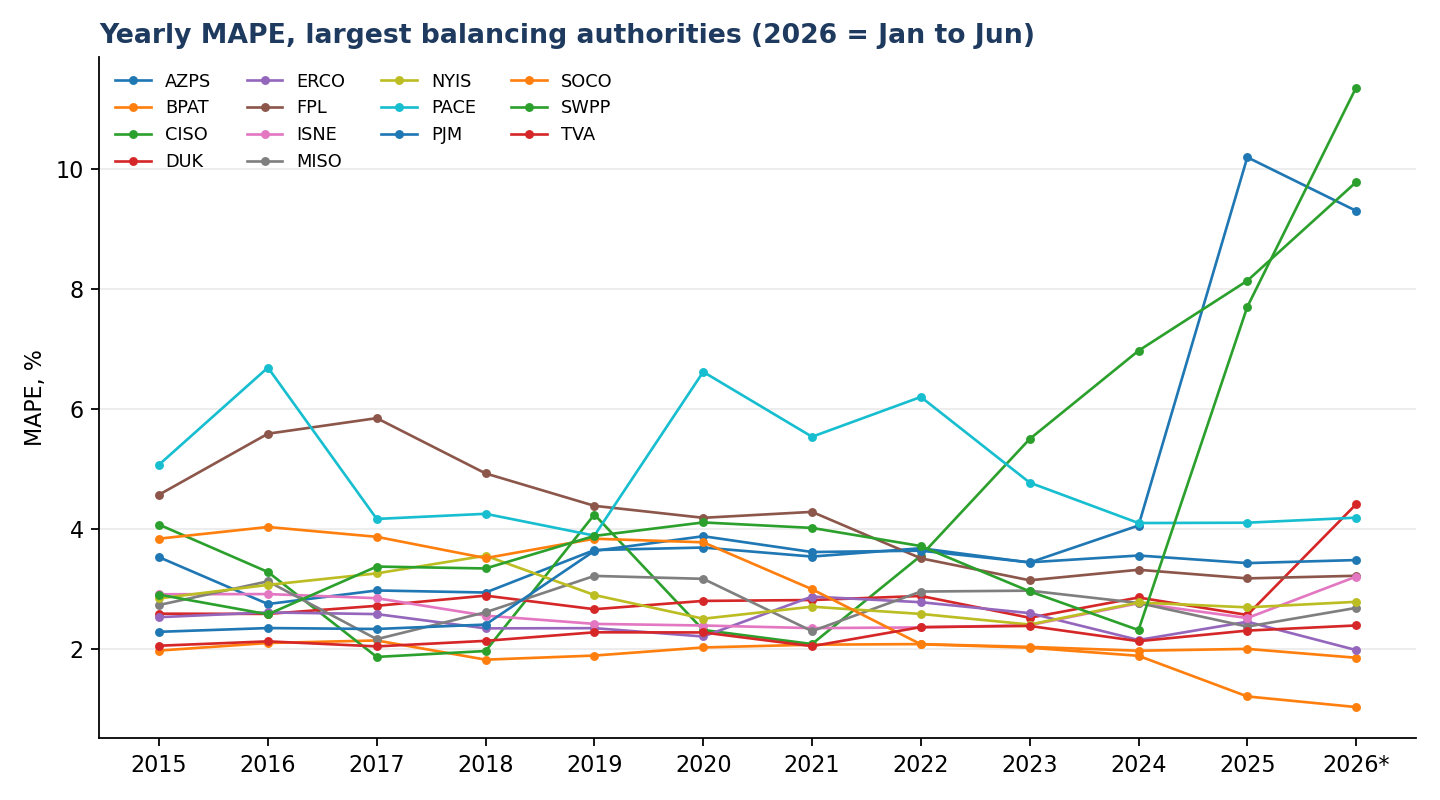
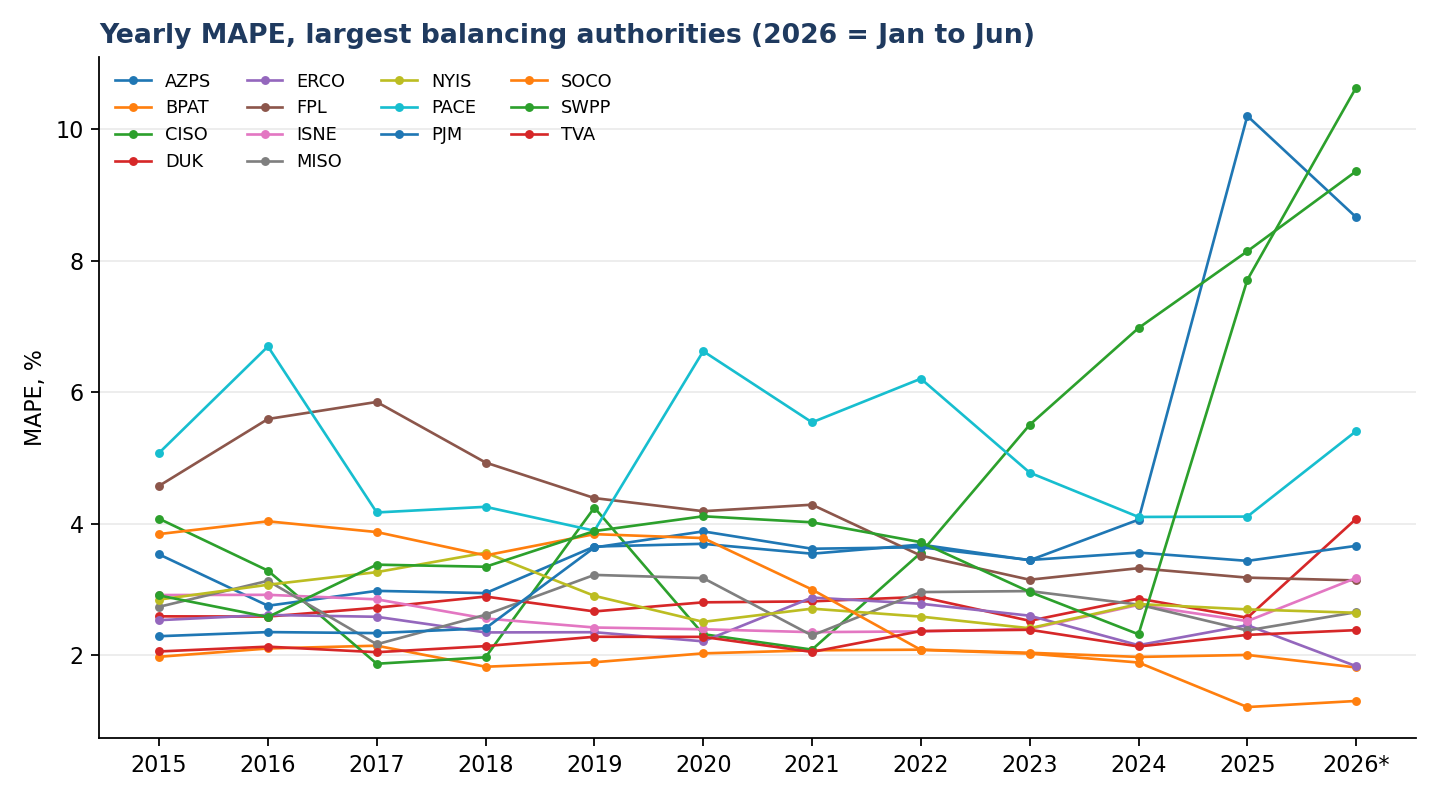
Add ORCID 0000-0001-6699-9951

diff --git a/01-ba-forecast-scorecard-2015-2026/README.md b/01-ba-forecast-scorecard-2015-2026/README.md
@@ -1,6 +1,6 @@
 # How well do U.S. balancing authorities forecast their own load? A 2015–2026 scorecard from EIA-930
 
-**Cardinal Grid Notes · No. 1 · Draft generated 2026-09-08 · Data 2015-07-01 to 2026-06-30 · Code: [`analysis.py`](analysis.py) · Scorer: [ba-forecast-scorecard](https://github.com/cardinalgrid/ba-forecast-scorecard) v0.1.1**
+**Cardinal Grid Notes · No. 1 · Draft generated 2026-09-10 · Data 2015-07-01 to 2026-09-10 · Code: [`analysis.py`](analysis.py) · Scorer: [ba-forecast-scorecard](https://github.com/cardinalgrid/ba-forecast-scorecard) v0.1.1**
 
 > Status: **draft for review**. Numbers and figures in this note are produced by `analysis.py` from public data; nothing here is typed by hand. The note will be published at [cardinalgrid.com/notes](https://cardinalgrid.com/notes) and archived with a DOI once reviewed.
 
@@ -12,11 +12,11 @@ This matters because the day-ahead forecast is what operators commit generation 
 
 ## What was measured
 
-- Source: EIA-930 six-month balance files, 2015-07-01 to 2026-06-30, 72 BAs in the files.
+- Source: EIA-930 six-month balance files, 2015-07-01 to 2026-09-10, 72 BAs in the files.
 - What the two series are, in EIA's own terms: "hourly integrated values in megawatts by hour ending time", i.e. average MW over each hour, time-stamped in UTC. `D` is actual demand; `DF` is the "day-ahead demand forecast", which each BA's daily file must contain as "yesterday's hourly day-ahead demand forecast for today". Files are due by 7:00 a.m. Eastern.
 - What EIA does not specify: the forecasting method, its inputs, or the time of day the forecast is produced. The instructions say a BA that does not produce a comparable forecast in the normal course of business is not required to build one for EIA and should "report the day-ahead demand forecast generated in the normal course of business". The forecast is therefore each BA's operational day-ahead forecast, as it was, made with whatever data the BA had at its own cut-off time.
-- For each BA-day with at least 20 valid hours: MAPE, bias, RMSE, and the error at the hour of the actual daily peak (`peak_hour_pct_error`, negative = forecast below actual). 206,335 BA-days and 4,945,622 hours were scored.
-- Data-quality rules, applied before any error is computed: hours with demand or forecast ≤ 0 are excluded; hours where forecast/demand falls outside [1/2, 2] are flagged as implausible (a zero, a unit error, a stale value) and excluded. 114,326 hours were flagged. EIA-imputed demand values were 0.000% of scored hours.
+- For each BA-day with at least 20 valid hours: MAPE, bias, RMSE, and the error at the hour of the actual daily peak (`peak_hour_pct_error`, negative = forecast below actual). 209,987 BA-days and 5,033,125 hours were scored.
+- Data-quality rules, applied before any error is computed: hours with demand or forecast ≤ 0 are excluded; hours where forecast/demand falls outside [1/2, 2] are flagged as implausible (a zero, a unit error, a stale value) and excluded. 114,714 hours were flagged. EIA-imputed demand values were 0.000% of scored hours.
 - Ranking eligibility: at least 180 scored days, mean demand ≥ 500 MW, and a median daily bias within ±25% (beyond that, forecast and demand are not describing the same quantity). 58 BAs report both series; **42 are eligible**.
 
 Full definitions are in the scorer's [README](https://github.com/cardinalgrid/ba-forecast-scorecard#metric-definitions).
@@ -25,7 +25,7 @@ Full definitions are in the scorer's [README](https://github.com/cardinalgrid/ba
 
 ### 1. Typical day-ahead error is a few percent, with a long tail
 
-Across eligible BAs, the **demand-weighted MAPE is 3.54%**; the median BA sits at 4.20%. The best five: PGE (1.8%), BPAT (2.0%), TVA (2.2%), GCPD (2.4%), ERCO (2.5%). The worst five: LDWP (7.8%), WACM (8.6%), WALC (9.9%), TEPC (11.2%), FPC (22.0%).
+Across eligible BAs, the **demand-weighted MAPE is 3.56%**; the median BA sits at 4.20%. The best five: PGE (1.8%), BPAT (2.0%), TVA (2.2%), ERCO (2.5%), GCPD (2.5%). The worst five: LDWP (7.8%), WACM (8.6%), WALC (9.9%), TEPC (11.1%), FPC (22.0%).
 
 ![Ranking](figures/fig1_ranking.png)
 
@@ -35,20 +35,20 @@ The tail is not, for the most part, bad forecasting. The BAs with the highest MA
 
 | Rank | BA | Region | MAPE | Bias | Mean abs. error at peak hour | 1-in-100-day under-forecast at peak |
 |---|---|---|---|---|---|---|
-| 2 | BPAT | NW | 2.01% | 0.10% | 2.15% | 7.0% |
-| 3 | TVA | TEN | 2.22% | 0.65% | 2.36% | 6.9% |
-| 5 | ERCO | TEX | 2.48% | 0.42% | 2.54% | 8.1% |
-| 6 | ISNE | NE | 2.60% | -1.63% | 1.40% | 4.6% |
-| 9 | MISO | MIDW | 2.77% | 2.41% | 2.64% | 3.6% |
-| 10 | DUK | CAR | 2.81% | 0.49% | 2.97% | 10.1% |
-| 11 | NYIS | NY | 2.85% | -2.39% | 2.95% | 8.7% |
-| 12 | SOCO | SE | 2.85% | -1.99% | 2.19% | 8.0% |
-| 15 | PJM | MIDA | 3.21% | -1.22% | 2.23% | 6.8% |
-| 20 | SWPP | CENT | 4.12% | 2.77% | 3.92% | 9.1% |
-| 22 | FPL | FLA | 4.22% | -2.22% | 4.48% | 16.6% |
-| 24 | CISO | CAL | 4.26% | -1.59% | 3.22% | 28.8% |
-| 26 | AZPS | SW | 4.31% | -0.18% | 3.50% | 17.5% |
-| 32 | PACE | NW | 4.98% | 3.79% | 4.49% | 20.4% |
+| 2 | BPAT | NW | 2.01% | 0.12% | 2.14% | 7.0% |
+| 3 | TVA | TEN | 2.22% | 0.66% | 2.35% | 6.9% |
+| 4 | ERCO | TEX | 2.46% | 0.41% | 2.52% | 8.0% |
+| 6 | ISNE | NE | 2.61% | -1.65% | 1.41% | 4.6% |
+| 9 | MISO | MIDW | 2.76% | 2.41% | 2.65% | 3.6% |
+| 10 | DUK | CAR | 2.81% | 0.52% | 2.97% | 10.0% |
+| 11 | SOCO | SE | 2.84% | -1.97% | 2.19% | 7.9% |
+| 12 | NYIS | NY | 2.84% | -2.36% | 2.94% | 8.6% |
+| 15 | PJM | MIDA | 3.23% | -1.23% | 2.23% | 6.8% |
+| 20 | SWPP | CENT | 4.18% | 2.84% | 3.97% | 9.0% |
+| 21 | FPL | FLA | 4.19% | -2.17% | 4.45% | 16.4% |
+| 26 | CISO | CAL | 4.33% | -1.70% | 3.23% | 28.7% |
+| 27 | AZPS | SW | 4.35% | -0.20% | 3.50% | 17.5% |
+| 32 | PACE | NW | 5.04% | 3.85% | 4.49% | 20.3% |
 
 ![Yearly MAPE](figures/fig2_yearly_major.png)
 
@@ -56,7 +56,7 @@ Two trends in this chart deserve their own note before any conclusion is drawn: 
 
 ### 3. At the peak hour, forecasts lean low
 
-On **59% of eligible BA-days the forecast was below actual demand at the hour of the daily peak.** If forecasts were unbiased, that share would be near 50%, and it has drifted upward since 2019. One eligible BA-day in a hundred under-forecasts the peak by more than **27.4%**. Under-forecasting at the peak is the direction that costs reserves and, in an emergency, load.
+On **59% of eligible BA-days the forecast was below actual demand at the hour of the daily peak.** If forecasts were unbiased, that share would be near 50%, and it has drifted upward since 2019. One eligible BA-day in a hundred under-forecasts the peak by more than **27.7%**. Under-forecasting at the peak is the direction that costs reserves and, in an emergency, load.
 
 ![Peak under-forecast share](figures/fig3_peak_under_forecast_share.png)
 
@@ -94,6 +94,6 @@ python analysis.py --rebuild     # downloads the EIA-930 files (~1 GB) and rebui
 
 ## Cite
 
-Guerra Filho, R. W. C. (2026). *How well do U.S. balancing authorities forecast their own load? A 2015–2026 scorecard from EIA-930.* Cardinal Grid Notes, No. 1. DOI: to be assigned on publication.
+Guerra Filho, R. W. C. ([ORCID 0000-0001-6699-9951](https://orcid.org/0000-0001-6699-9951)) (2026). *How well do U.S. balancing authorities forecast their own load? A 2015–2026 scorecard from EIA-930.* Cardinal Grid Notes, No. 1. DOI: to be assigned on publication.
 
 *Text and figures CC BY 4.0; code Apache-2.0. Analyses rely on public data only and represent the author's own views.*

diff --git a/01-ba-forecast-scorecard-2015-2026/README.template.md b/01-ba-forecast-scorecard-2015-2026/README.template.md
@@ -76,6 +76,6 @@ python analysis.py --rebuild     # downloads the EIA-930 files (~1 GB) and rebui
 
 ## Cite
 
-Guerra Filho, R. W. C. (2026). *How well do U.S. balancing authorities forecast their own load? A 2015–2026 scorecard from EIA-930.* Cardinal Grid Notes, No. 1. DOI: to be assigned on publication.
+Guerra Filho, R. W. C. ([ORCID 0000-0001-6699-9951](https://orcid.org/0000-0001-6699-9951)) (2026). *How well do U.S. balancing authorities forecast their own load? A 2015–2026 scorecard from EIA-930.* Cardinal Grid Notes, No. 1. DOI: to be assigned on publication.
 
 *Text and figures CC BY 4.0; code Apache-2.0. Analyses rely on public data only and represent the author's own views.*
